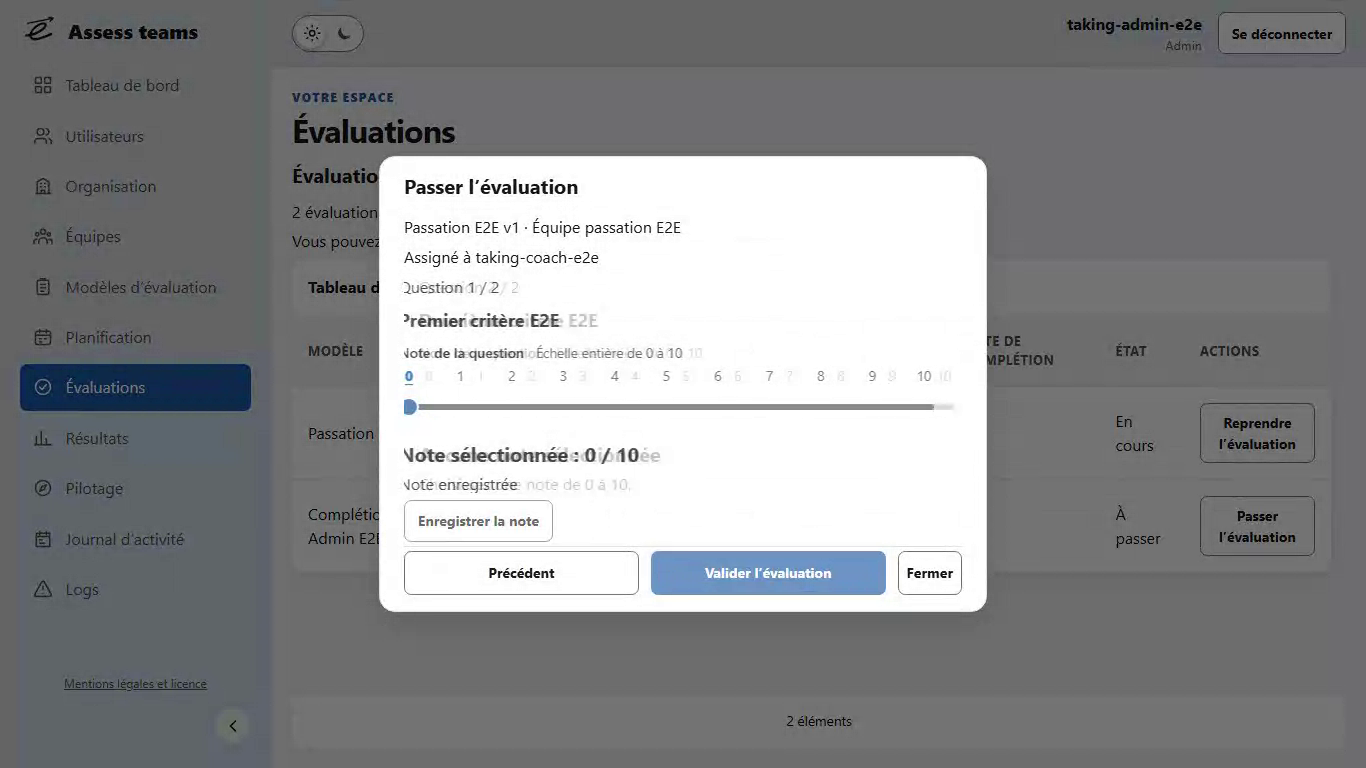
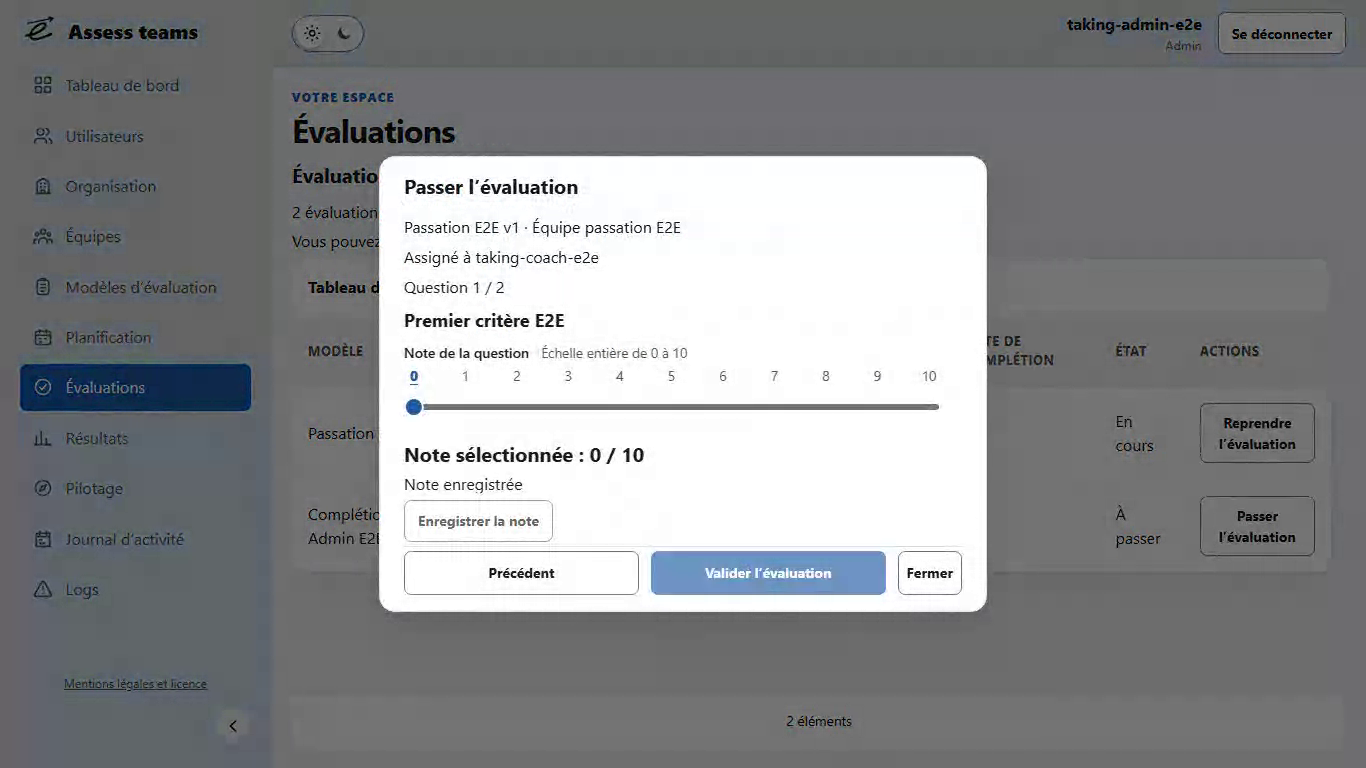
docs(ux): show actual start middle and end of question crossfade

Changed region(s): [[0.2767, 0.3438, 0.5227, 0.6562]]

diff --git a/docs/quality/ux-transitions/recette-correctif.md b/docs/quality/ux-transitions/recette-correctif.md
@@ -13,6 +13,8 @@ L’extrait montre ouverture, Suivant, Précédent, fermeture, puis
 | ![Début](question-debut.png) | ![Milieu](question-milieu.png) | ![Fin](question-fin.png) |
 
 Ces images sont décodées dans la même vidéo source, à sa cadence normale.
+Les captures correspondent aux frames décodées 17, 21 et 27 du clip (25 images/s) :
+ancienne question lisible, chevauchement visible, nouvelle question stabilisée.
 Elles ne proviennent pas d’une animation mise en pause artificiellement.
 Le milieu montre simultanément les textes des deux questions et leurs notes distinctes.
 Le cadre, les métadonnées et les actions ont les mêmes coordonnées dans les trois images.
